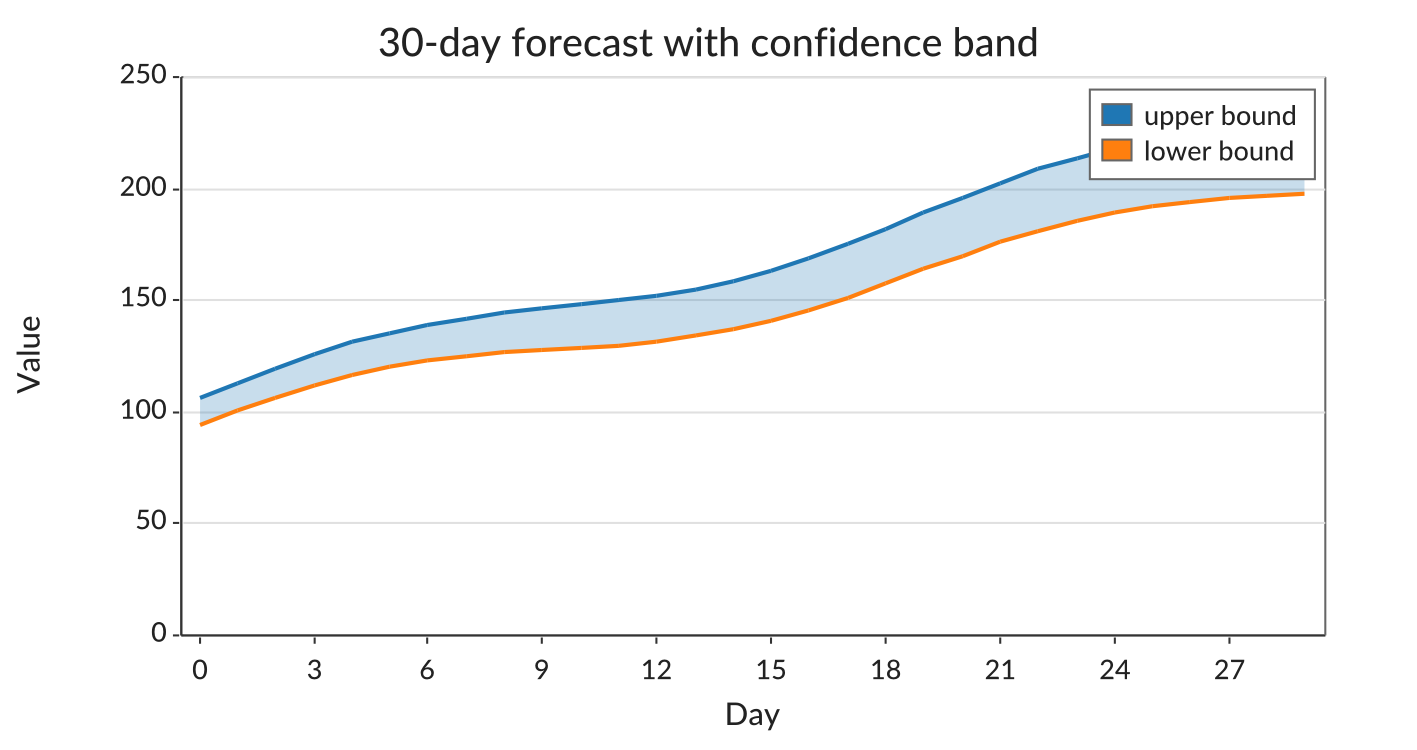
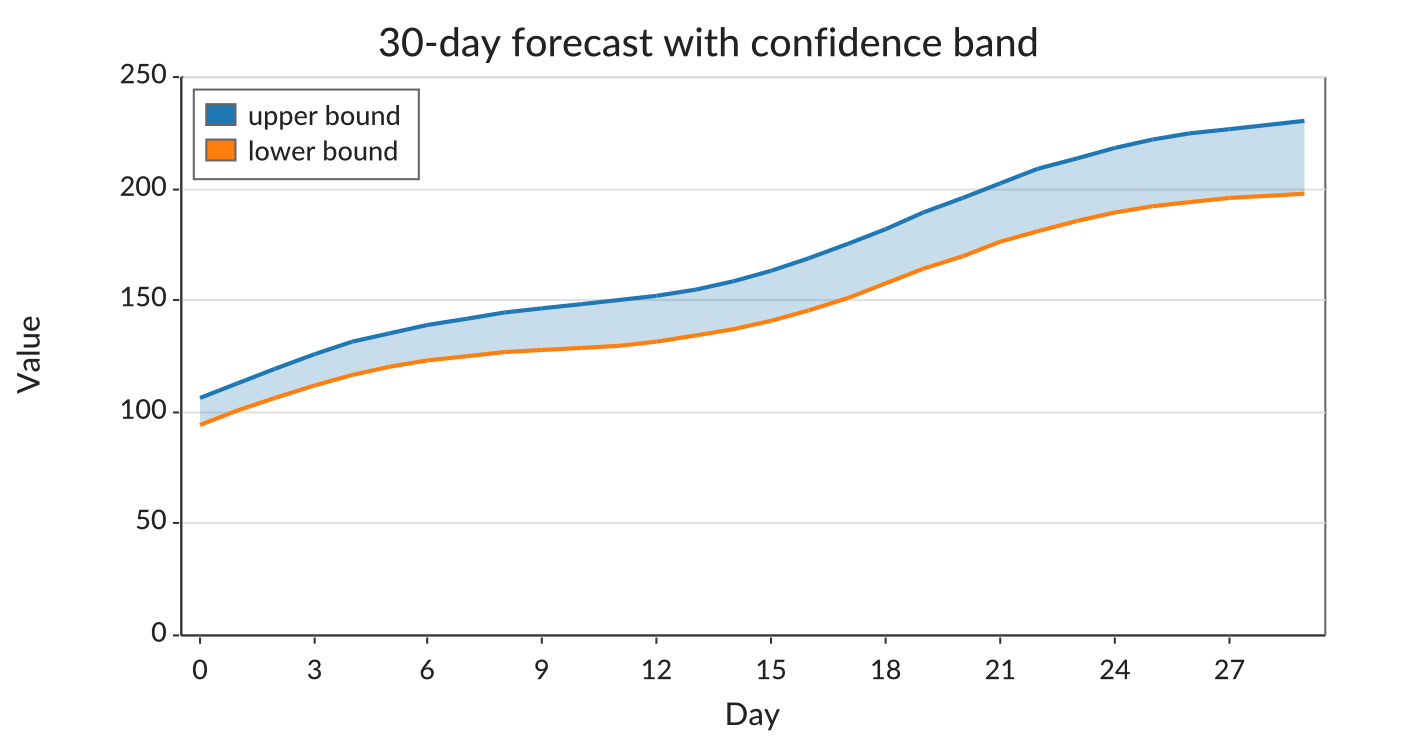
v1.1 visual polish: cone canvas-fit, bubble log decade clamp, band legend
User feedback after release:

- Funnel STYLE_CONE bottom band's front-facing arc was spilling past
  the canvas edge. fastchart_funnel.c now reserves max_half * 0.22
  pixels at the bottom of the plot region (worst-case ring_h for
  the bottommost band) so the bottom arc fits within the canvas.

- BubbleChart log Y: when the bubble at the smallest data point
  sits near plot.y1, its radius can clip below the X axis. Added
  a multiplicative ymin/ymax pad in log mode (divide / multiply by
  1.5), clamped to the current decade floor / ceiling so the log
  nicer doesn't add a spurious extra-decade tick. Same data set
  renders byte-identically here (the log nicer already produces a
  decade-aligned range), but the fix protects edge cases where ymin
  is just above its decade floor.

- AreaChart band example: moved the legend to top-left so it
  doesn't overlap the rising envelope. One-line stub edit.

Regenerated docs/v1-gallery.html.

Pulled in remicollet/issue-test (PR #1) + remicollet/issue-buildir
(PR #2) via the rebase — both already on origin.

Changed region(s): [[0.7452, 0.092, 0.9315, 0.2453], [0.1242, 0.092, 0.3105, 0.2453]]

diff --git a/fastchart_bubble.c b/fastchart_bubble.c
@@ -59,12 +59,32 @@ int fastchart_bubble_render_to_target(fastchart_bubble_obj *self, fastchart_targ
     }
     if (ymax > ymin) {
         double ypad = (ymax - ymin) * 0.10;
-        /* Log axis: padding via subtraction can push ymin <= 0; let
-         * fastchart_value_range_compute_log nice the bounds instead. */
-        if (self->y_axis_scale != FASTCHART_SCALE_LOG) {
+        if (self->y_axis_scale == FASTCHART_SCALE_LOG) {
+            /* Log axis: subtractive ymin pad could push ymin <= 0
+             * and trip the log validator. Multiplicative pad keeps
+             * ymin strictly positive while still giving the
+             * smallest-data bubble vertical room — without it, the
+             * bottom-most bubble's radius spills below the X axis.
+             *
+             * Clamp the padded ymin to *just above* its decade floor
+             * so the log nicer doesn't add a spurious lower-decade
+             * tick (e.g. data starting at 1.48 padded to 0.988 would
+             * otherwise extend the range from [1, 10000] down to
+             * [0.1, 10000], adding an empty decade at the bottom).
+             * Same trick on the upper side keeps ymax within its
+             * current decade. */
+            double decade_lo = pow(10.0, floor(log10(ymin)));
+            double decade_hi = pow(10.0, ceil(log10(ymax)));
+            double padded_lo = ymin / 1.5;
+            double padded_hi = ymax * 1.5;
+            if (padded_lo < decade_lo * 1.01) padded_lo = decade_lo * 1.01;
+            if (padded_hi > decade_hi * 0.99) padded_hi = decade_hi * 0.99;
+            ymin = padded_lo;
+            ymax = padded_hi;
+        } else {
             ymin -= ypad;
+            ymax += ypad;
         }
-        ymax += ypad;
     }
 
     fastchart_value_range yrange;

diff --git a/fastchart_funnel.c b/fastchart_funnel.c
@@ -89,14 +89,22 @@ int fastchart_funnel_render_to_target(fastchart_funnel_obj *self, fastchart_targ
         return -1;
     }
 
-    int total_h = y1 - y0;
-    int stage_h = total_h / n;
-    if (stage_h < 4) stage_h = 4;
     int cx = (x_left + x_right) / 2;
     int max_half = (x_right - x_left) / 2;
 
     bool pyramid = (self->funnel_style == FASTCHART_FUNNEL_STYLE_PYRAMID);
     bool cone    = (self->funnel_style == FASTCHART_FUNNEL_STYLE_CONE);
+    /* CONE bands draw front-facing ellipse arcs at the top and
+     * bottom of every band. The bottom arc dips below the band's
+     * geometric y by ring_h ≈ 22% of the band's average half-width.
+     * For the bottom-most band that half is max_half (the widest
+     * point), so reserve max_half * 0.22 pixels at the bottom of
+     * the plot region — otherwise the bottom band's arc spills
+     * past the canvas edge. */
+    int cone_bottom_reserve = cone ? (int)(max_half * 0.22 + 0.5) : 0;
+    int total_h = (y1 - y0) - cone_bottom_reserve;
+    int stage_h = total_h / n;
+    if (stage_h < 4) stage_h = 4;
     /* CONE shares PYRAMID's triangular layout (cumulative-value y
      * positions, value-proportional band heights, linear width
      * taper) but renders each band's top and bottom edges as front-

diff --git a/docs/examples/53_area_band.php b/docs/examples/53_area_band.php
@@ -31,4 +31,5 @@ for ($i = 0; $i < $days; $i++) {
     ])
     ->setBandMode(true)
     ->setFillOpacity(96)
+    ->setLegendPosition(FastChart\Chart::LEGEND_TOP_LEFT)
     ->renderToFile(__DIR__ . '/53_area_band.png');